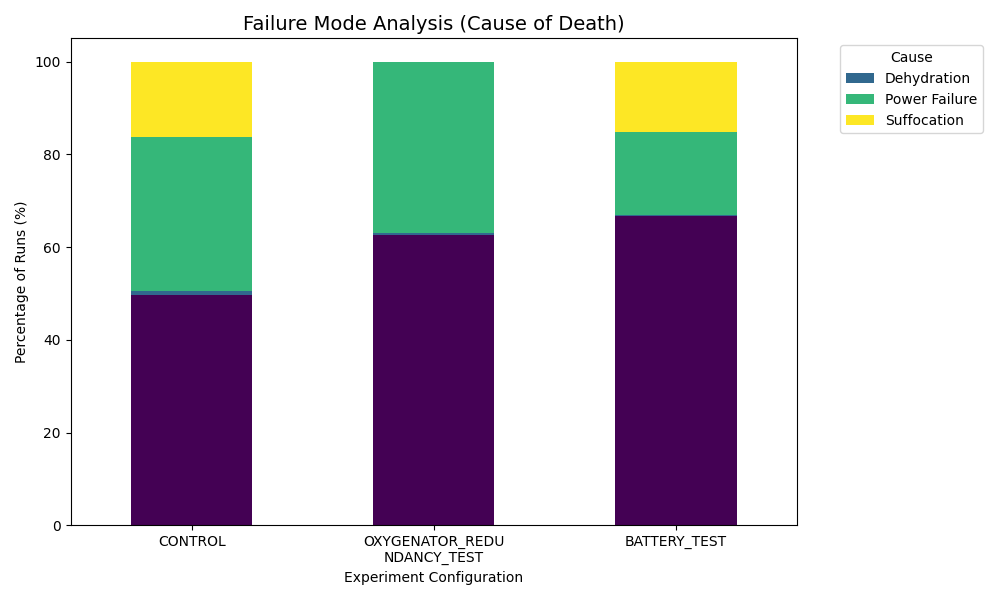
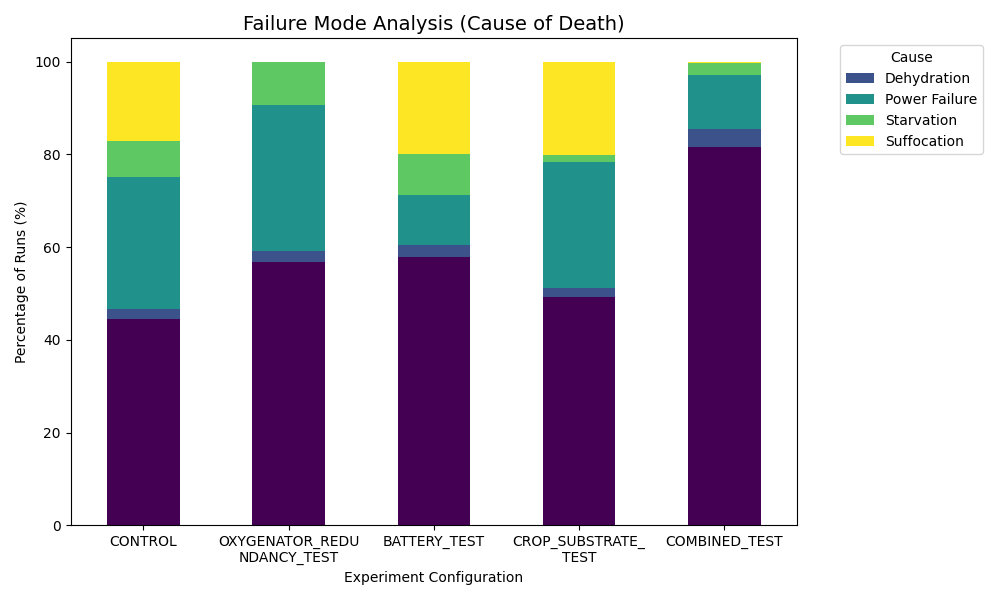
add new sample run (with CROP_SUBSTRATE_TEST and COMBINED_TEST) results and plots

diff --git a/README.md b/README.md
@@ -62,19 +62,29 @@ Here's a sample run of 1,000 Monte Carlo simulations for three experiment types:
 
 ```terminal
 --- Starting Experiment: CONTROL ---
-Simulations: 1000
-Success Rate: 49.70%
-Failure Causes: {'Power Failure': 333, 'Suffocation': 162, 'Dehydration': 8}
+Simulations: 2000
+Success Rate: 44.40%
+Failure Causes: {'Suffocation': 343, 'Starvation': 156, 'Power Failure': 567, 'Dehydration': 46}
 
 --- Starting Experiment: OXYGENATOR_REDUNDANCY_TEST ---
-Simulations: 1000
-Success Rate: 62.50%
-Failure Causes: {'Power Failure': 370, 'Dehydration': 5}
+Simulations: 2000
+Success Rate: 56.80%
+Failure Causes: {'Suffocation': 3, 'Starvation': 183, 'Power Failure': 629, 'Dehydration': 49}
 
 --- Starting Experiment: BATTERY_TEST ---
-Simulations: 1000
-Success Rate: 66.70%
-Failure Causes: {'Power Failure': 178, 'Suffocation': 152, 'Dehydration': 3}
+Simulations: 2000
+Success Rate: 57.95%
+Failure Causes: {'Suffocation': 400, 'Starvation': 175, 'Power Failure': 215, 'Dehydration': 51}
+
+--- Starting Experiment: CROP_SUBSTRATE_TEST ---
+Simulations: 2000
+Success Rate: 49.20%
+Failure Causes: {'Suffocation': 402, 'Starvation': 31, 'Power Failure': 542, 'Dehydration': 41}
+
+--- Starting Experiment: COMBINED_TEST ---
+Simulations: 2000
+Success Rate: 81.65%
+Failure Causes: {'Suffocation': 7, 'Starvation': 51, 'Power Failure': 231, 'Dehydration': 78}
 ```
 
 ### Conclusion 1: Redundancy Eliminates "Sudden Death"
